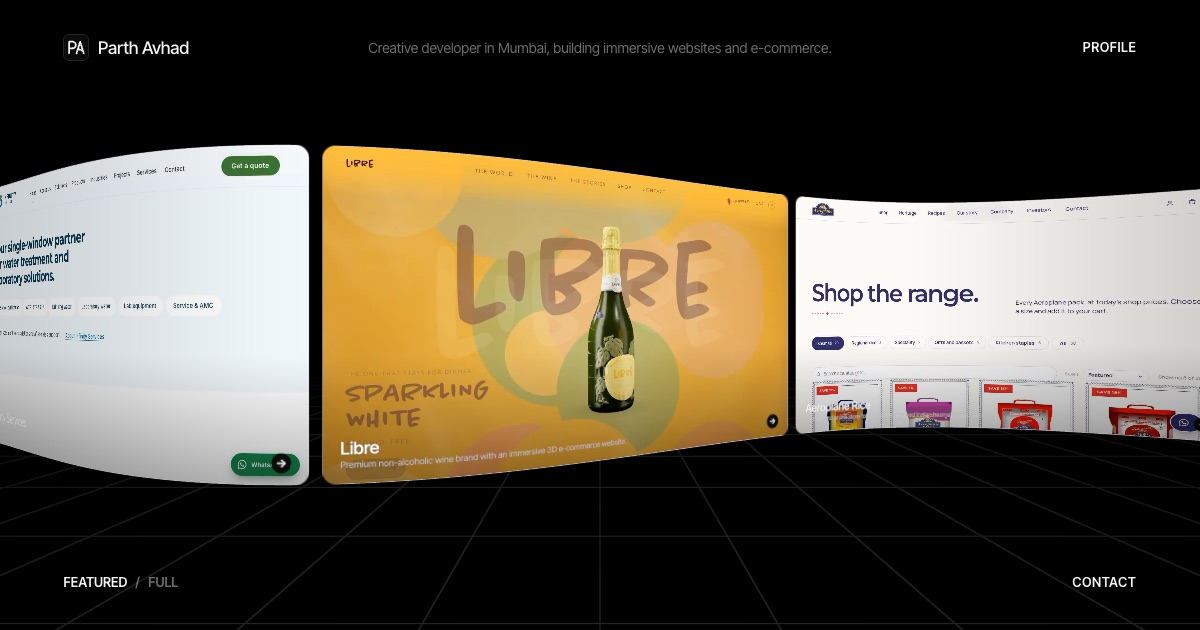
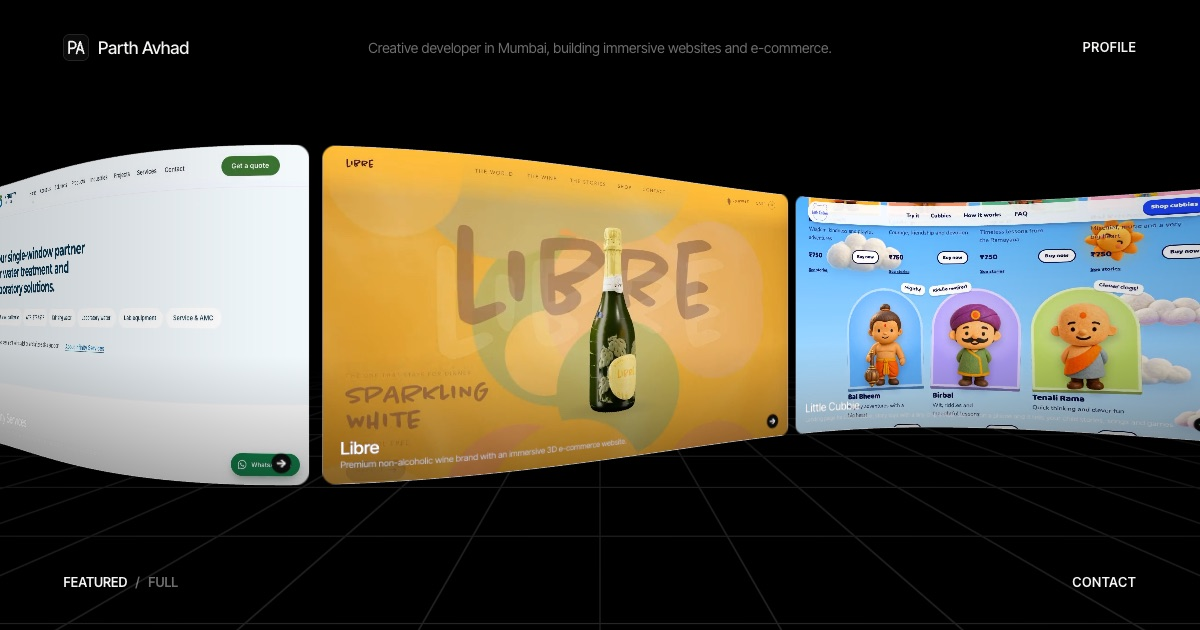
Swap Little Cubbie and Aeroplane Rice order
Little Cubbie is now second (next to Libre on the landing view) and
Aeroplane Rice third; share image and fallback list updated to match.

diff --git a/index.html b/index.html
@@ -18,7 +18,7 @@
     <meta property="og:type" content="website" />
     <meta property="og:site_name" content="Parth Avhad" />
     <meta property="og:title" content="Parth Avhad — Creative Developer" />
-    <meta property="og:description" content="Creative developer in Mumbai, building immersive websites and e-commerce. Selected work: Libre, Aeroplane Rice, Little Cubbie, Shiorra, Yobo, Quint Home, Tatvyra and Infinity Services." />
+    <meta property="og:description" content="Creative developer in Mumbai, building immersive websites and e-commerce. Selected work: Libre, Little Cubbie, Aeroplane Rice, Shiorra, Yobo, Quint Home, Tatvyra and Infinity Services." />
     <meta property="og:url" content="https://parths-portfolio.vercel.app/" />
     <meta property="og:image" content="https://parths-portfolio.vercel.app/og-image.jpg" />
     <meta property="og:image:width" content="1200" />
@@ -43,8 +43,8 @@
         <h2>Selected work</h2>
         <ul>
           <li><a href="https://www.drinklibre.in" style="color:inherit">Libre</a>: premium non-alcoholic wine brand with an immersive 3D e-commerce website.</li>
-          <li><a href="https://aeroplane-rice.vercel.app" style="color:inherit">Aeroplane Rice</a>: website and online store for an aged Indian basmati rice brand.</li>
           <li><a href="https://littlecubbies.vercel.app/?cubbie=ganesh" style="color:inherit">Little Cubbie</a>: landing page for a brand of story toys.</li>
+          <li><a href="https://aeroplane-rice.vercel.app" style="color:inherit">Aeroplane Rice</a>: website and online store for an aged Indian basmati rice brand.</li>
           <li><a href="https://shiorra.com" style="color:inherit">Shiorra</a>: wellness e-commerce, product design and frontend development.</li>
           <li><a href="https://yobo-beta.vercel.app" style="color:inherit">Yobo</a>: e-commerce website for a lingerie brand.</li>
           <li><a href="https://www.quinthome.in" style="color:inherit">Quint Home</a>: e-commerce for a Mumbai home-fragrance brand.</li>

diff --git a/src/data/projects.js b/src/data/projects.js
@@ -122,19 +122,6 @@ export const projects = [
     palette: ['#3a0f17', '#e7b9a4', '#f6e9df'],
   },
   {
-    id: 'aeroplane-rice',
-    title: 'Aeroplane Rice',
-    category: 'Food Brand E-commerce',
-    year: '',
-    summary: 'Website and online store for Aeroplane, an aged Indian basmati rice brand.',
-    description: 'Heritage storytelling and a full shop for a basmati brand that rests its rice for eight months before milling.',
-    technologies: [],
-    links: [{ label: 'Live site', href: 'https://aeroplane-rice.vercel.app' }],
-    ...media('aeroplane-rice'),
-    gallery: [2, 3, 4, 5].map((n) => `/images/projects/aeroplane-rice-${n}.webp`),
-    palette: ['#f6f1e7', '#2d2a6e', '#1f1d3d'],
-  },
-  {
     id: 'little-cubbie',
     title: 'Little Cubbie',
     category: 'Landing Page',
@@ -147,6 +134,19 @@ export const projects = [
     ...media('little-cubbie'),
     gallery: [2, 3, 4, 5].map((n) => `/images/projects/little-cubbie-${n}.webp`),
     palette: ['#bfe3ff', '#2f3fd8', '#1d2559'],
+  },
+  {
+    id: 'aeroplane-rice',
+    title: 'Aeroplane Rice',
+    category: 'Food Brand E-commerce',
+    year: '',
+    summary: 'Website and online store for Aeroplane, an aged Indian basmati rice brand.',
+    description: 'Heritage storytelling and a full shop for a basmati brand that rests its rice for eight months before milling.',
+    technologies: [],
+    links: [{ label: 'Live site', href: 'https://aeroplane-rice.vercel.app' }],
+    ...media('aeroplane-rice'),
+    gallery: [2, 3, 4, 5].map((n) => `/images/projects/aeroplane-rice-${n}.webp`),
+    palette: ['#f6f1e7', '#2d2a6e', '#1f1d3d'],
   },
   {
     id: 'shiorra',
